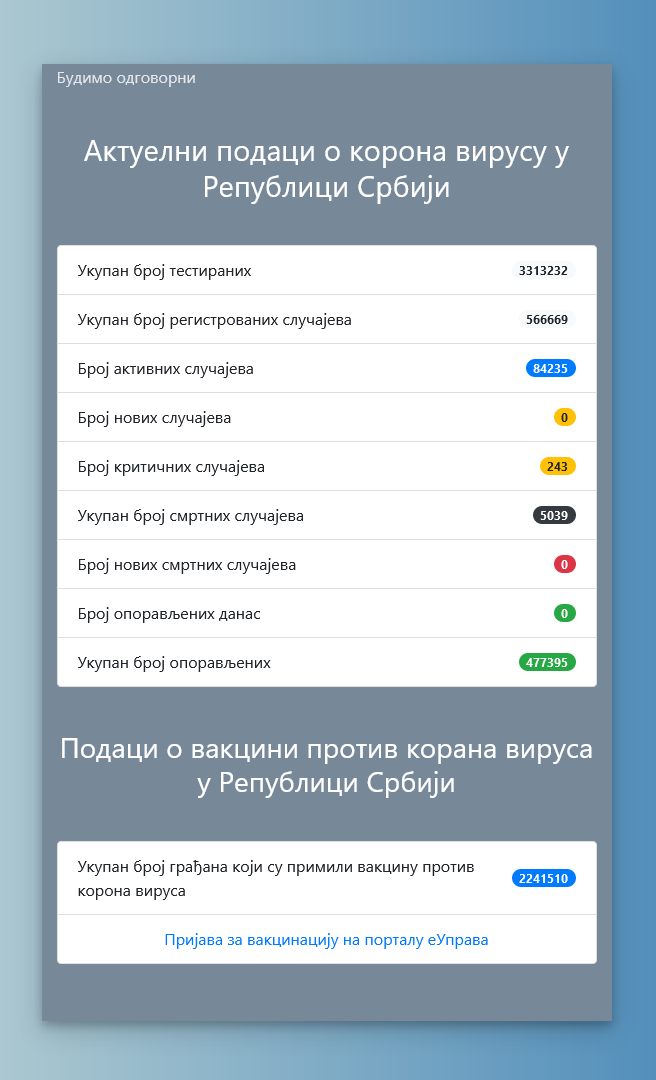
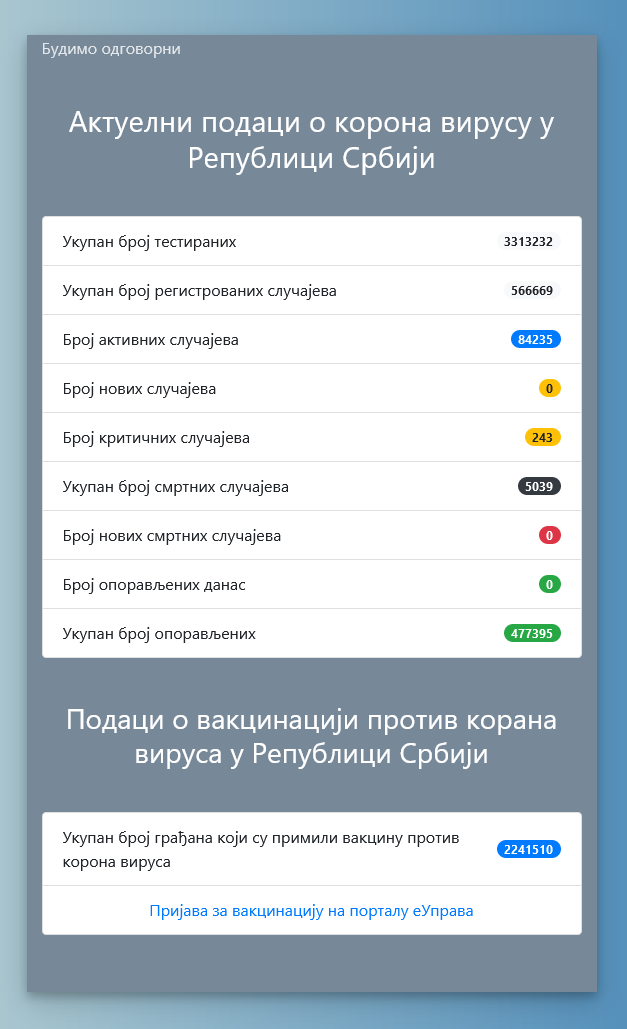
refactoring

Changed region(s): [[0.0303, 0.0311, 0.9697, 0.9951]]

diff --git a/index.html b/index.html
@@ -83,7 +83,7 @@
 <!--                    <span class="badge badge-dark badge-pill badge11"></span>-->
 <!--                </li>-->
 <!--            </ul>-->
-            <h3>Подаци о вакцини против корана вируса у Републици Србији</h3>
+            <h3>Подаци о вакцинацији против корана вируса у Републици Србији</h3>
             <ul class="list-group">
                 <li class="list-group-item d-flex justify-content-between align-items-center">Укупан број грађана који
                     су примили вакцину против корона вируса
